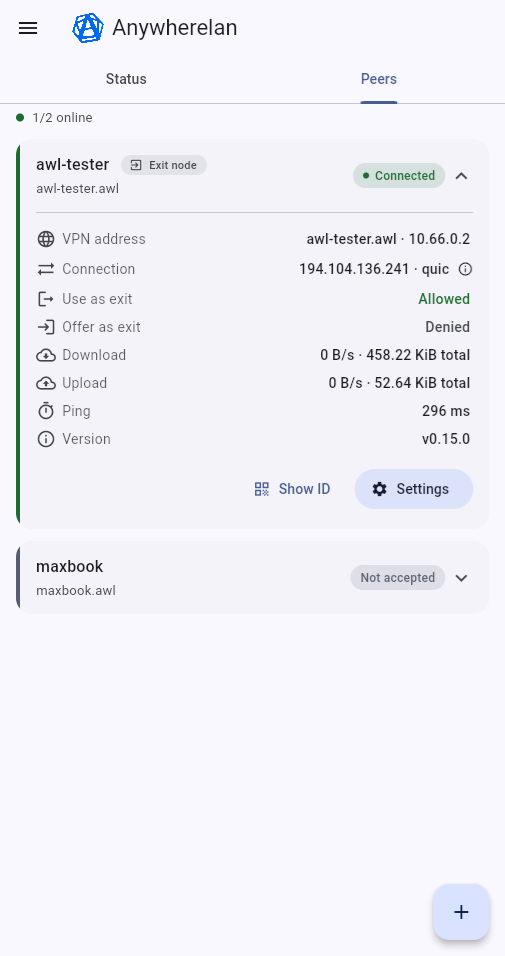
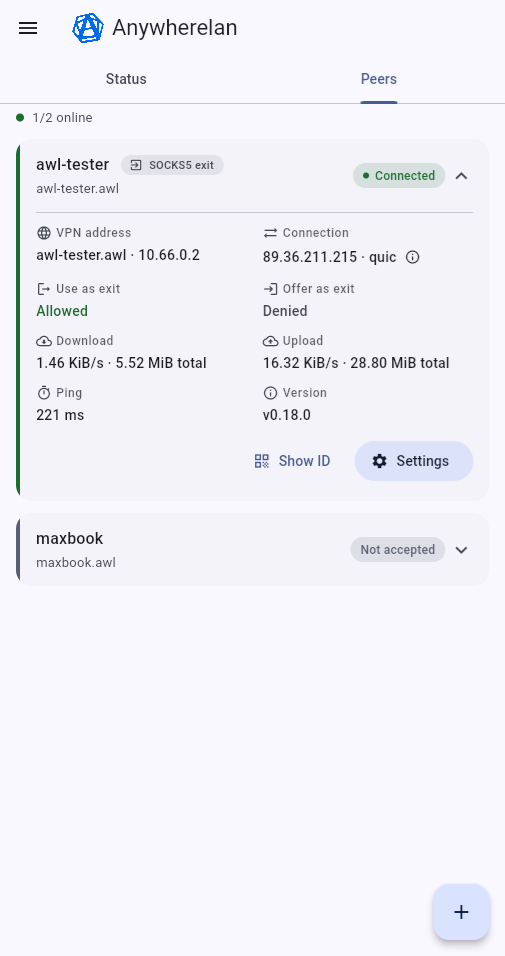
bump version v0.18.0

diff --git a/README.md b/README.md
@@ -1,2 +1,53 @@
-awl-flutter is the GUI part of the [anywherelan](https://github.com/anywherelan/awl) project. Please
-report issues at the anywherelan issue tracker.
+# Anywherelan (GUI)
+
+The cross-platform GUI for the [Anywherelan](https://github.com/anywherelan/awl) peer-to-peer mesh VPN. All the networking lives in the Go backend in the [`awl`](https://github.com/anywherelan/awl) repo — this is only its frontend, written in Flutter.
+
+Please report issues at the [anywherelan issue tracker](https://github.com/anywherelan/awl/issues).
+
+## Features
+
+- Fully peer-to-peer — no coordination server, traffic goes directly between your devices.
+- Full-tunnel VPN gateway: route all of your traffic through a remote device (exit node).
+- Route per-app traffic through a remote device as a SOCKS5 proxy.
+- Automatic NAT traversal, with a fallback to community relays when a direct path isn't possible.
+- TLS 1.3 encryption (QUIC or TCP+TLS).
+- Add peers by scanning a QR code.
+
+## Platforms
+
+- **Android** — full client: the backend is embedded in the app, which owns the VPN interface and supports the VPN gateway and SOCKS5 proxy.
+- **Web** — read-only / observation mode: connects to an already-running backend; it cannot start/stop the server or control the VPN.
+
+## How it talks to the backend
+
+The GUI never does networking itself — it drives the `awl` backend over its HTTP REST API:
+
+- **Web** calls an already-running backend over HTTP. Since the browser request is cross-origin, the backend has to allow it via CORS (in local development a small proxy bridges the two).
+- **Android** embeds the backend (a [gomobile](https://pkg.go.dev/golang.org/x/mobile) build of `awl`) and runs the same HTTP server locally, which the UI calls exactly like on web. A few things can't go over HTTP, though — starting the backend, owning the VPN interface, and reconfiguring routes for the gateway — so those use Android-specific platform channels (Kotlin) instead.
+
+## Install
+
+Grab the APK from the [releases page](https://github.com/anywherelan/awl/releases).
+
+## Screenshots
+
+<p>
+  <img src="fastlane/metadata/android/en-US/images/phoneScreenshots/1.png" width="300" />
+  <img src="fastlane/metadata/android/en-US/images/phoneScreenshots/2.png" width="300" />
+</p>
+
+## Building
+
+```bash
+flutter pub get
+dart run build_runner build   # generate JSON serialization code
+flutter run                   # run on a connected device/emulator
+```
+
+> **Android** also needs the Go backend built as `anywherelan.aar` from the sibling `../awl` repo (`./build.sh android-lib`); without it the app fails to start.
+
+For the full build instructions (Go backend, Android library, release builds) see [BUILDING.md](https://github.com/anywherelan/awl/blob/master/BUILDING.md) in the `awl` repo.
+
+## License
+
+[MPLv2](LICENSE).